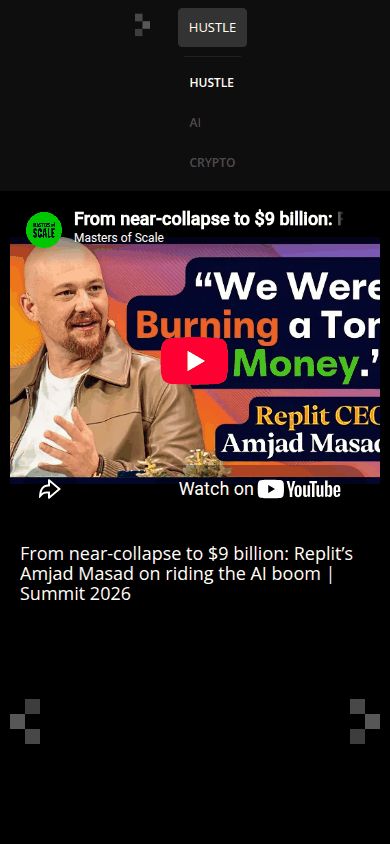
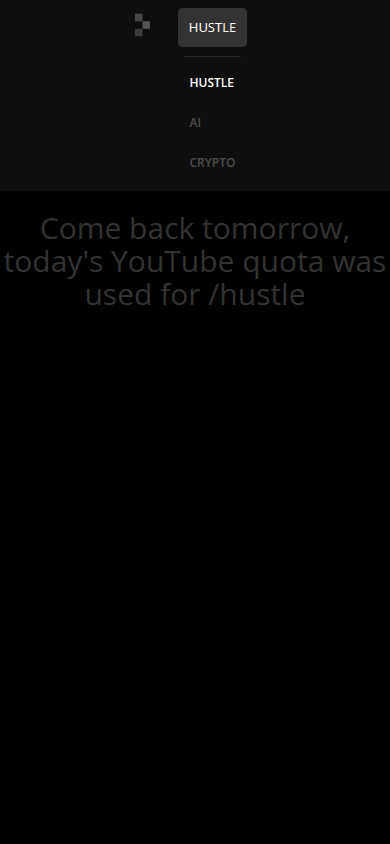
docs: fix parity recheck findings from review
Retake the menu-open pair, which held one image twice, record the
footer on ceb562f, correct the build-failure cause and the plan status,
and note that both apps ran out of YouTube quota together.

diff --git a/MIGRATION-PLAN.md b/MIGRATION-PLAN.md
@@ -4,7 +4,7 @@ This is the canonical checklist for replacing the Vue/jQuery app on `master`
 with the Next.js app on `dev`. Optional product work belongs in [TODO.md](./TODO.md).
 Runtime conventions and environment variables belong in [AGENTS.md](./AGENTS.md).
 
-**Status:** core migration implemented; not ready for cutover. Code inspection
+**Status:** migration implemented and verified; ready for cutover. Code inspection
 is not browser verification. Check off an open item only after its acceptance
 criteria pass, or record an explicit decision to accept the difference.
 
@@ -14,8 +14,10 @@ The [Vercel preview note](./.agents/notes/implemented/migration/2026-09-28-verce
 records a protected deployment of `4a33f66`, deployed legacy-link checks and
 mobile-menu evidence. The [hosted checks note](./.agents/notes/implemented/migration/2026-11-17-hosted-checks.md) records the `d599ab2`
 deployment loading real feeds in every category, playing a hustle video
-through resizes and rotation, and its secret scan and timings; full browser
-confirmation and cutover gates remain open.
+through resizes and rotation, and its secret scan and timings. The
+[hosted parity recheck](./.agents/notes/implemented/migration/2026-11-18-hosted-parity-recheck/README.md) records the legacy look against walnut.tv and the
+release-revision validation. Only the cutover and the analytics check after it
+remain; Reddit work is paused.
 
 ## Remaining work at a glance
 
@@ -172,10 +174,12 @@ revision, browser and result. Unit coverage does not establish browser parity.
       note. Note blocked comparisons rather than treating them as passes.
       Pixel-identical styling is not required; explain intentional differences.
       Screenshots complement the interaction checks below; they do not replace them.
-      Hosted pairs of the legacy look against walnut.tv at 1440×900, 390×844,
-      844×390 and 390×568 match within 2px apart from the mobile list and the
-      desktop footer padding, fixed after the capture. In landscape legacy's
-      layout breaks (a 17px player); the new app keeps a full-width player.
+      Hosted pairs of the legacy look against walnut.tv at 1440×900, 390×844
+      and 390×568 match within 2px apart from the mobile list and the desktop
+      footer padding, fixed after the capture. Intentional differences: on
+      desktop the new app scrolls only the right column where legacy scrolls
+      the whole page 50px, and at 844×390 legacy's layout breaks (a 17px
+      player) while the new app keeps a full-width player.
       See the [hosted parity recheck](./.agents/notes/implemented/migration/2026-11-18-hosted-parity-recheck/README.md).
 
 - [x] **B1: Routing.** Every configured category, both deep-link route shapes,
@@ -291,7 +295,6 @@ revision, browser and result. Unit coverage does not establish browser parity.
         `b12bdd8` and on `23e8bae`, which adds the desktop footer padding fix.
         B0 and B5 pass on the hosted Preview of the same layout. See the
         [hosted parity recheck](./.agents/notes/implemented/migration/2026-11-18-hosted-parity-recheck/README.md).
-        The Reddit parts of B6/B7 stay paused with Reddit.
 - [ ] **L7: Cutover and rollback.** Review current `master` channel changes,
       finish or explicitly accept the open parity items, update the PR summary,
       and record the deployment target, redirect policy and rollback procedure.
@@ -299,6 +302,8 @@ revision, browser and result. Unit coverage does not establish browser parity.
       check home/deep links, enabled APIs, Reddit's unavailable state, analytics
       and quota usage in production. The proposed order of Netlify, Vercel and
       DNS changes, and the rollback, are in the [cutover note](./.agents/notes/proposed/migration/2026-11-16-cutover-and-rollback.md).
+      Any app-code change that lands on `dev` before the cutover merge, such
+      as `master` channel changes, reopens L6 for that revision.
 
 ## Suggested restart order
 

diff --git a/.agents/notes/implemented/migration/2026-11-18-hosted-parity-recheck/README.md b/.agents/notes/implemented/migration/2026-11-18-hosted-parity-recheck/README.md
@@ -19,9 +19,11 @@ Tested on 2026-11-18.
   - Preview deployment `dpl_4kCJdRWYaf5RrxHSs3kWhQvFT6cY`, built from `3d1b376`.
   - `3d1b376` and `b12bdd8` differ only in docs and screenshots.
   - The Production build of `b12bdd8` failed on Vercel: Turbopack could not
-    resolve the Open Sans `next/font/google` module. That build had restored
-    the previous deployment's cache; the cause is not confirmed. It builds
-    locally, both from a clean clone and on top of `82022fb`'s build output.
+    resolve the Open Sans `next/font/google` module. The next `dev` build,
+    `ceb562f`, restored the same cache and succeeded, so the cache was not the
+    cause. A failed font download from Google during the build fits the
+    error. It builds locally, both from a clean clone and on top of
+    `82022fb`'s build output.
 - **Legacy:** <https://walnut.tv>. Analytics requests (Tag Manager, Google
   Analytics, Firebase Analytics) were aborted in the browser.
 - **Browser:** agent-browser 0.38.1, HeadlessChrome 154 on Linux, resized with
@@ -44,6 +46,12 @@ The selected states watch `KTgRt6VQN9g` and then select `iA2gdwTWJ_E` on both
 sites. The rects of the player, title, arrows, logo, menu and footer were
 compared on the same video.
 
+The menu-open pair was retaken on 2026-11-25 against the `dev` Production
+deployment of `ceb562f`. Both sites had run out of YouTube quota that day:
+legacy shows no video, and the new app shows its quota notice above the
+cached videos. The toggle (178, 8, 69×39) and the three menu links (y 63, 103
+and 143, 40px tall) are at the same positions on both.
+
 These match legacy within 2px:
 
 - 390×844, both states.
@@ -55,7 +63,9 @@ The differences:
 
 - **Desktop footer links: 6px higher** (y 915 against 921). Legacy's
   `padding-bottom: 1rem` is 10px under Bootstrap 3's 10px root font size;
-  the new app used 16px. Fixed in `VideoDisplay.tsx`.
+  the new app used 16px. Fixed in `VideoDisplay.tsx`. On `ceb562f` the
+  links end 10px above the bottom of the right column's content, as on
+  legacy.
 - **Desktop scrolling:** legacy scrolls the whole page 50px to reach the
   footer, sidebar included. The new app scrolls only the right column, so the
   sidebar stays 850px tall and in place. This keeps U2's independent list
@@ -129,17 +139,18 @@ padding fix), on Node 24.22.1 with pnpm 10.27.0, pass:
 
 ## Alternatives considered
 
-- **Capture on the `dev` Production alias.** It still serves `82022fb`, the
-  layout before the parity change, because the `b12bdd8` build failed. The PR
-  Preview runs the same app code.
+- **Capture on the `dev` Production alias.** On 2026-11-18 it still served
+  `82022fb`, the layout before the parity change, because the `b12bdd8` build
+  failed. The PR Preview runs the same app code.
 - **Device emulation instead of viewport resizing.** Kept to resizing, as in
   the first run and the fixture suite, so the results compare.
 
 ## Consequences
 
 - B0 and B5 are closed for the legacy look.
-- **The next Vercel production build may fail the same way.** Redeploy
-  without the build cache if it does; the cutover note's merge step says so.
+- **A production build can fail if the Google font download fails.**
+  Redeploying is enough; the cutover note's merge step says so. Serving
+  Open Sans with `next/font/local` would remove the download.
 - **Untested:**
   - real wheel and touch scrolling (agent-browser's wheel did not scroll
     headless; the checks used element scrolling)

diff --git a/.agents/notes/proposed/migration/2026-11-16-cutover-and-rollback.md b/.agents/notes/proposed/migration/2026-11-16-cutover-and-rollback.md
@@ -31,8 +31,8 @@ Freeze the legacy site, make Vercel build `master`, then move DNS.
    `package.json`.
 4. **Merge PR #325.** Vercel builds production. Verify real feeds, deep links
    and `?p=` links on the Vercel production URL before any DNS change. If the
-   build fails to resolve the `next/font/google` module, redeploy without the
-   build cache; the `dev` build of `b12bdd8` failed that way
+   build fails to resolve the `next/font/google` module, redeploy; the `dev`
+   build of `b12bdd8` failed that way and the next one passed
    ([recheck note](../../implemented/migration/2026-11-18-hosted-parity-recheck/README.md)).
 5. **Add the domains.** Add `walnut.tv` and `www.walnut.tv` to the Vercel
    project, with `www` redirecting to the apex, as it does today.
@@ -78,8 +78,11 @@ does not need reverting.
   `videosWatched` key but stores new history under `video-storage`, which the
   legacy app does not read. History from before the cutover is unaffected.
 - The Vercel `YOUTUBE_API_KEY` was replaced on 2026-11-17 after the earlier
-  key was denied, and feeds load since. If the new key shares a Google Cloud
-  project with the public legacy key, abuse of the legacy key can exhaust the
-  quota the new app relies on until step 8 deletes it.
+  key was denied. On 2026-11-25 both apps ran out of YouTube quota at once:
+  walnut.tv showed its "come back tomorrow" message and the `dev` deployment
+  its quota notice over cached videos. The two keys most likely share a Google
+  Cloud project, so legacy traffic, or abuse of its public key, uses up the
+  quota the new app needs until step 8 deletes that key. A server key in its
+  own project removes the coupling.
 - These steps rely on DNS, response headers and deployment data. Netlify and
   Cloudflare dashboard settings have not been inspected.

diff --git a/.agents/notes/implemented/migration/2026-11-17-legacy-visual-parity.md b/.agents/notes/implemented/migration/2026-11-17-legacy-visual-parity.md
@@ -42,8 +42,8 @@ the source of truth for fonts, sizes, colours and spacing.
 
 ## Consequences
 
-- Hosted pairs at 1440×900, 390×844 and 390×568 match legacy within 2px
-  once the desktop footer padding is 10px, as legacy's `1rem` resolves under
+- Hosted pairs at 1440×900, 390×844 and 390×568 match legacy within 2px.
+  The desktop footer padding is 10px, as legacy's `1rem` resolves under
   Bootstrap 3. See the [hosted parity recheck](./2026-11-18-hosted-parity-recheck/README.md).
 - At 844×390 legacy's column wraps and its player shrinks to a 17px sliver.
   The new app keeps a full-width player with the title one scroll below.
